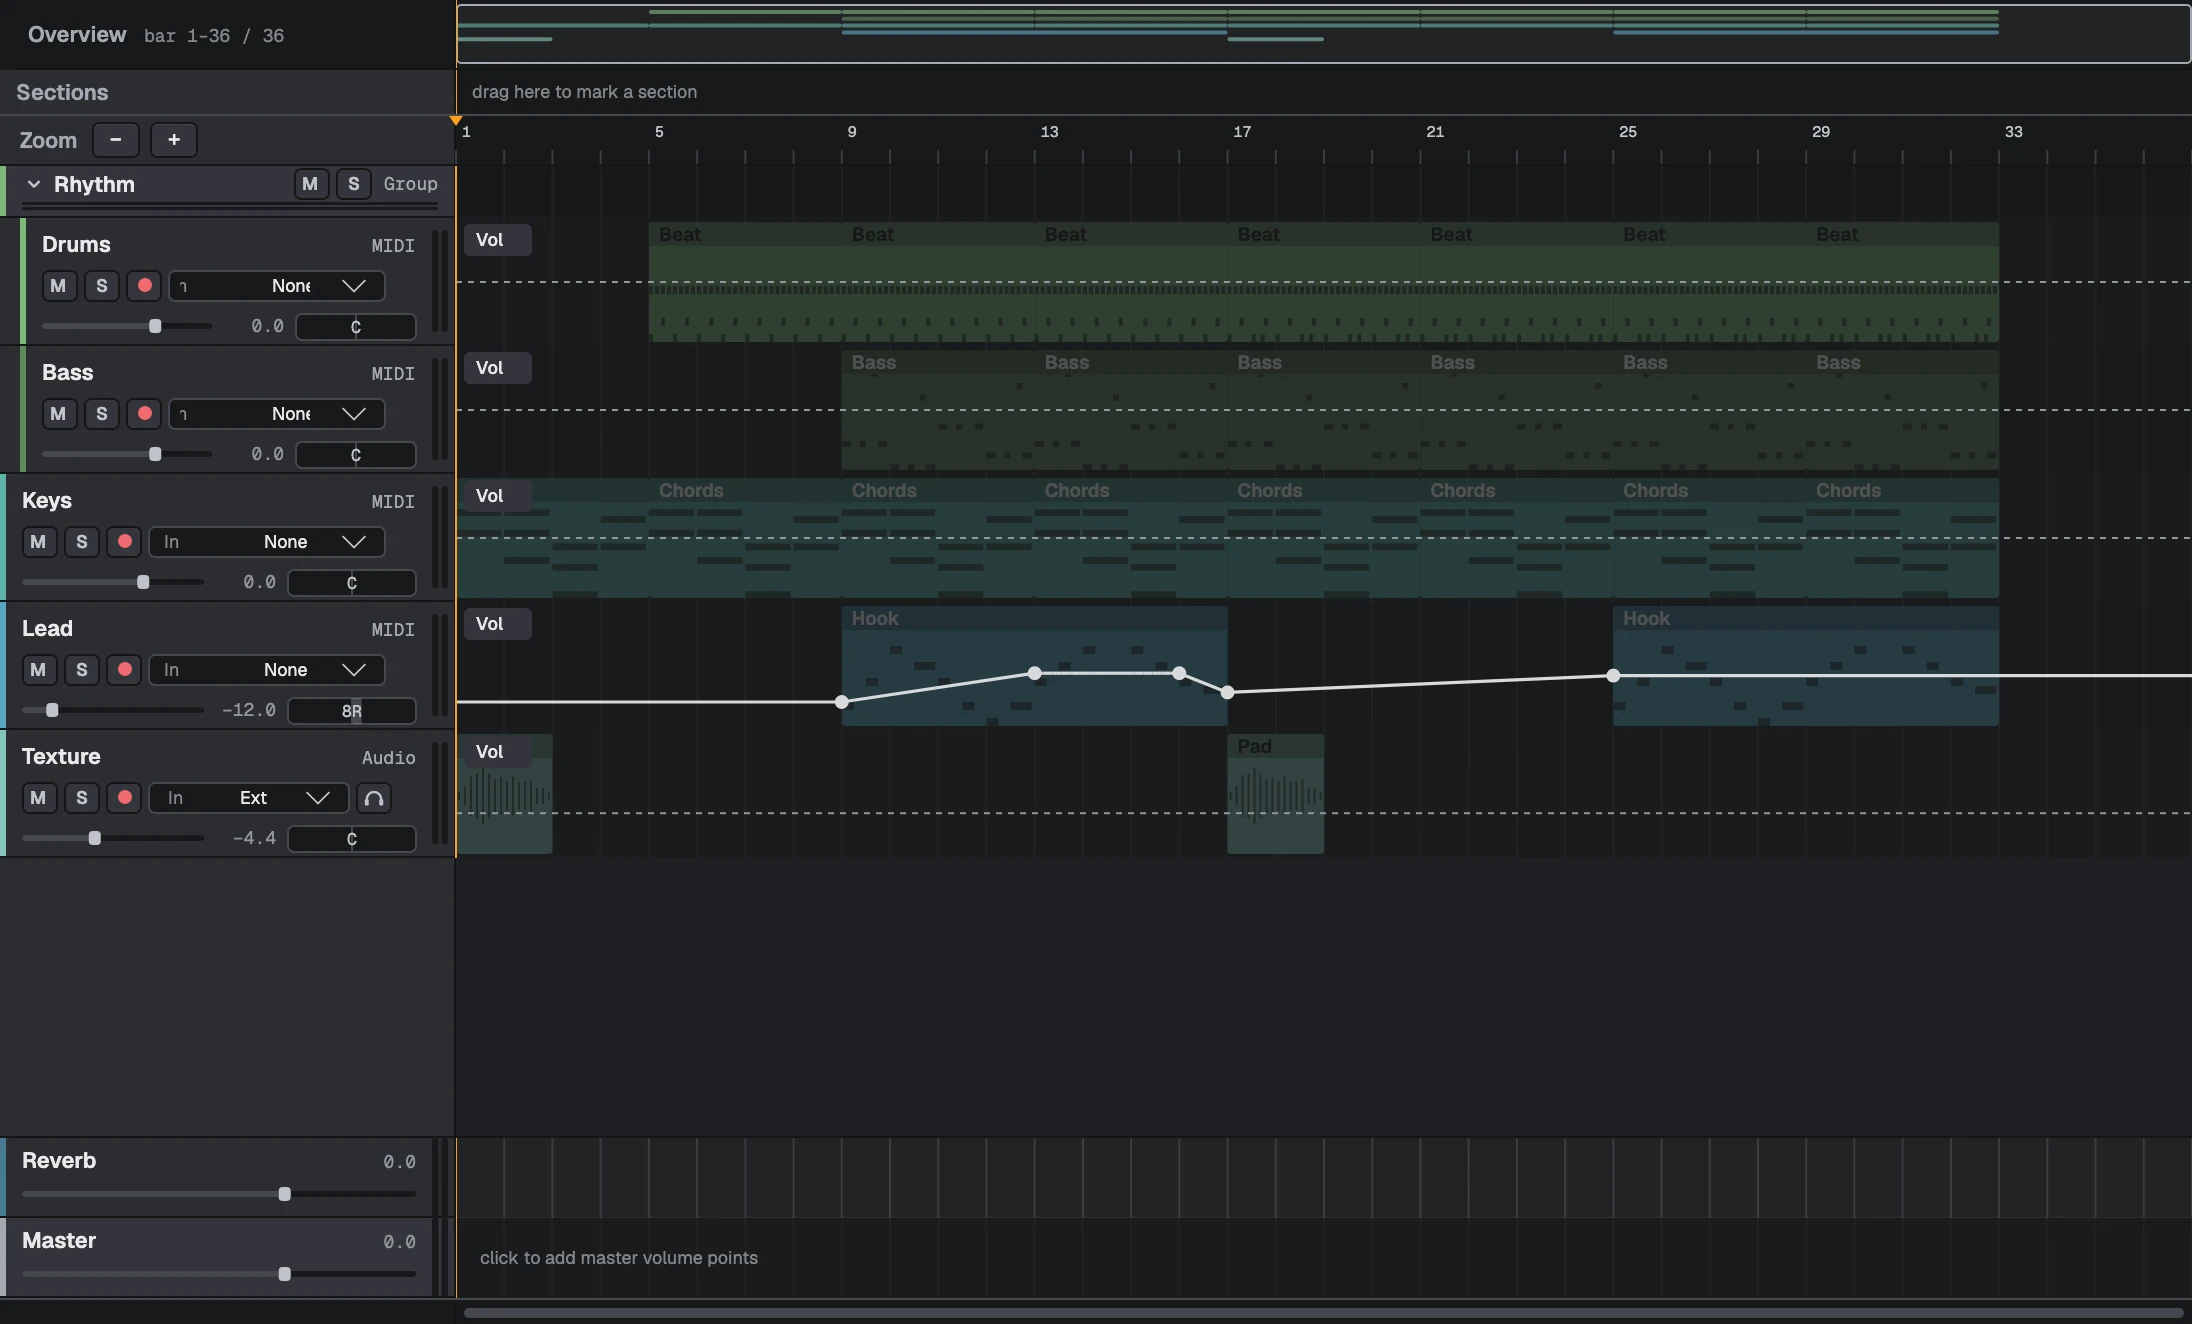
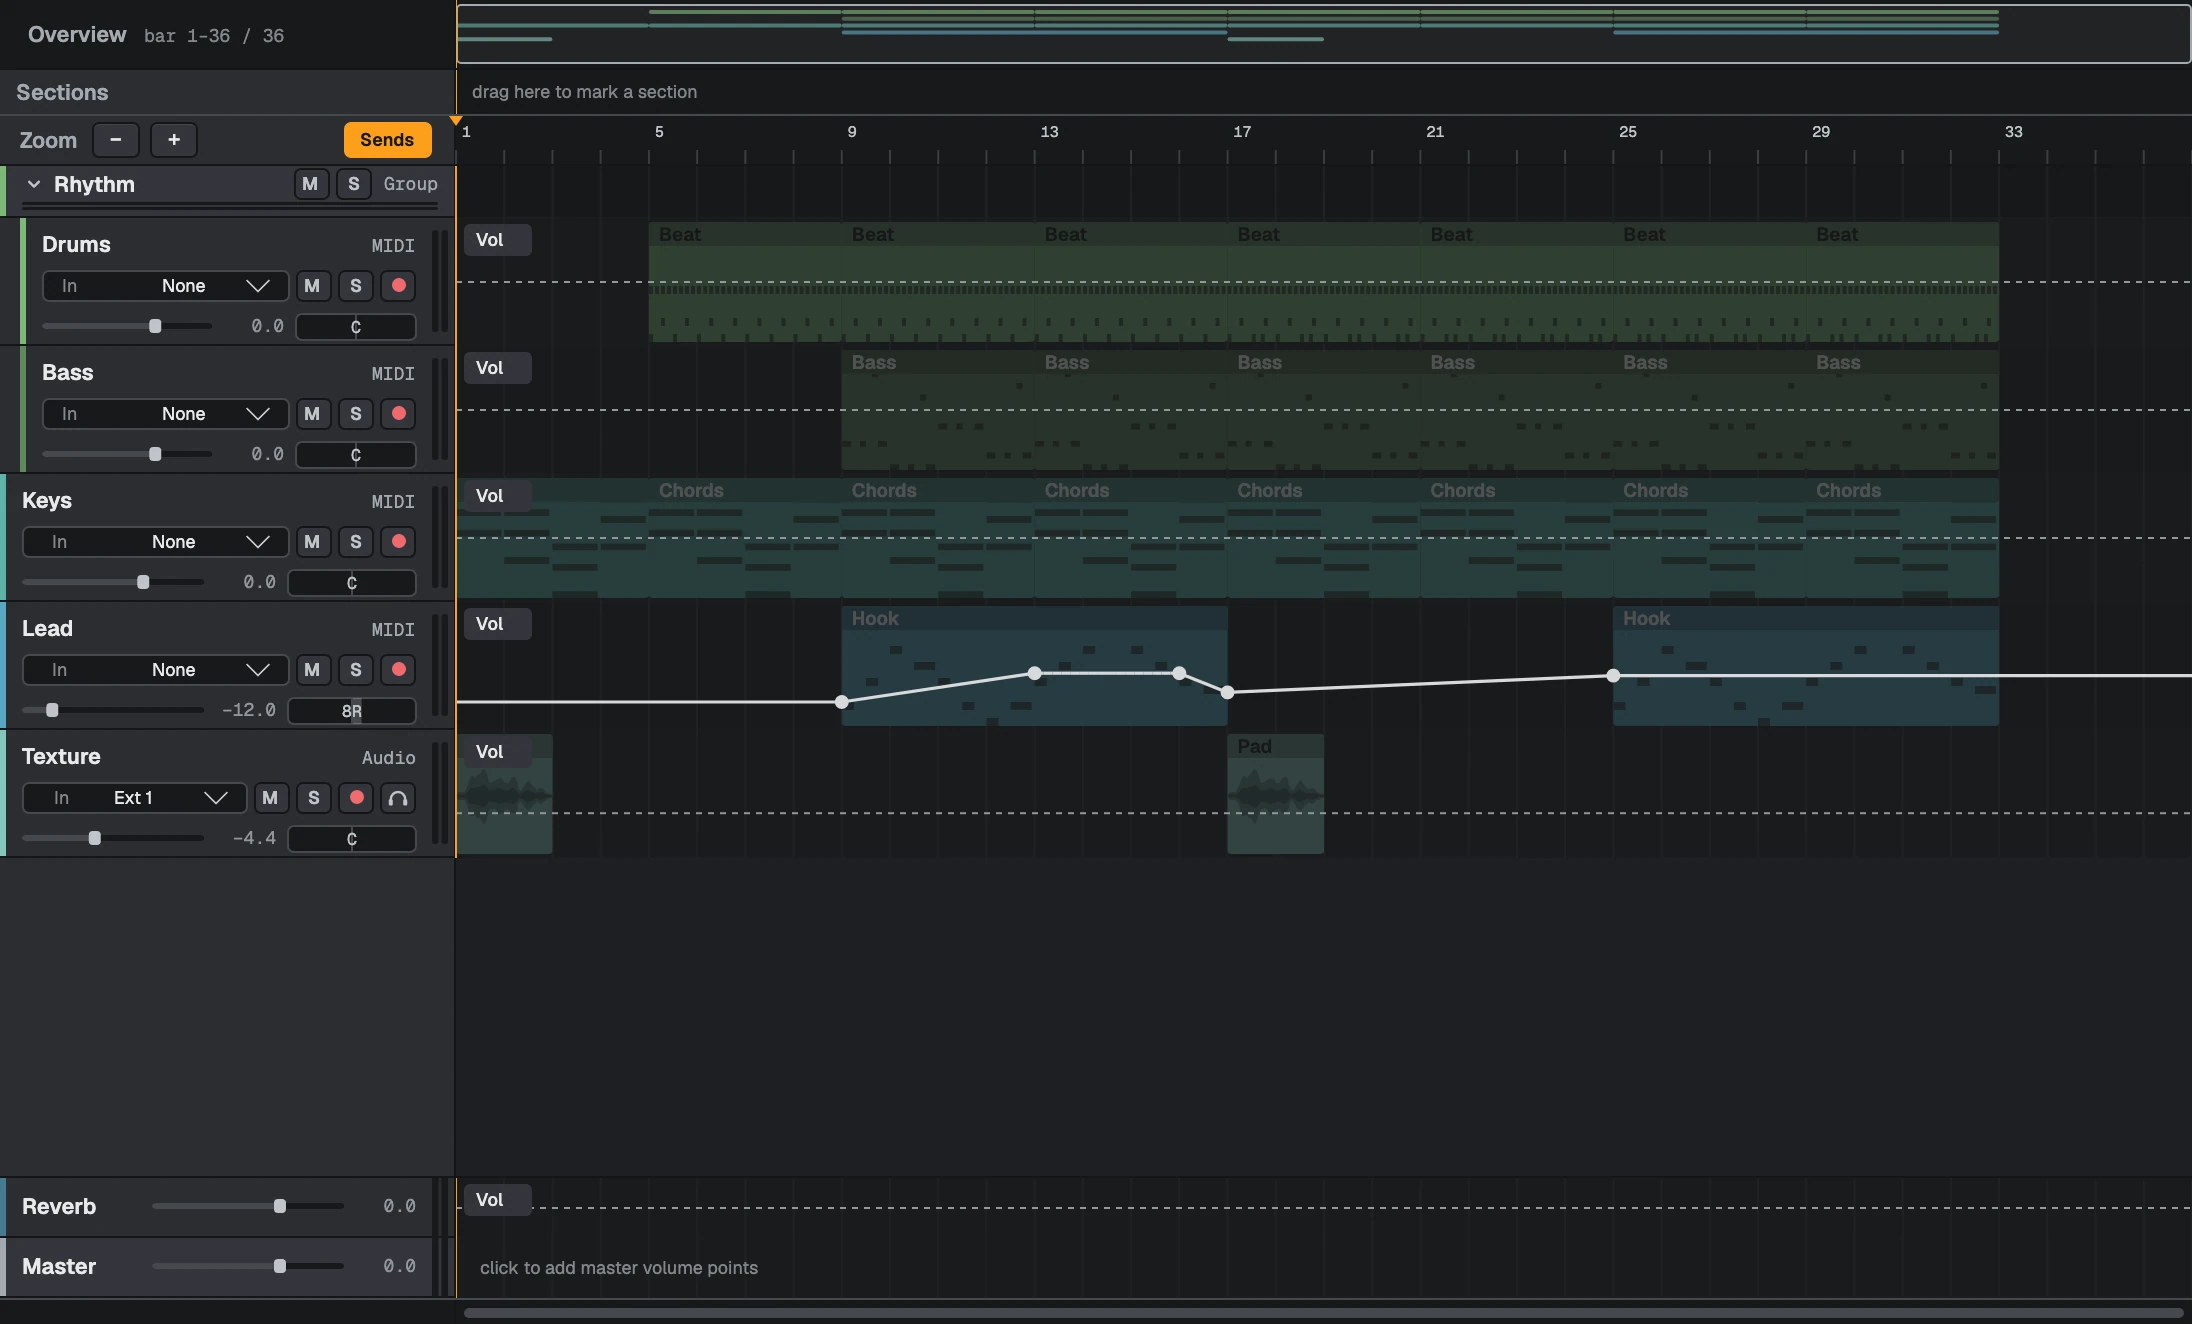
(docs) Send knobs in the Arrangement track headers; sends undoable and automatable (nota-daw/nota#143)

diff --git a/shots/app/Scenes.cs b/shots/app/Scenes.cs
@@ -31,6 +31,7 @@ namespace NotaDocsShots;
 ///             more MIDI clips selected with it, so they open together), automation, tab (browser tab index),
 ///             expand (a folder in that tab) + pick (a row to select, which the preview player takes), detailHeight, element, width, height,
 ///             fold (the selected track's audio effects to fold into strips, by chain index, e.g. "0,2"; "i" = the instrument)
+///             rows (every track row at this height in px; standard is 64)
 ///   palette   the command palette (⌘⇧P) over the main window: view, select (track), card (index of
 ///             an audio effect to select in Devices), query, down (rows to move), mods (alt | cmd | shift),
 ///             origin (devices: the Devices panel had the focus), crop (true: just the palette card)
@@ -394,6 +395,8 @@ public sealed class Scenes
         // Zoom: fit the whole song, or the app's default (28 px a beat from bar 1) — the view
         // keeps its zoom between shots otherwise.
         var tl = mw.FindControl<ArrangementView>("Timeline")!;
+        // Every track row at this height (e.g. 96: a standard row tall enough for its sends).
+        if (shot.Int("rows") is int rows) Invoke(tl, "SetAllTrackHeights", (double)rows);
         if (shot.Bool("fit")) Invoke(tl, "ZoomToFitProject");
         else Invoke(tl, "ApplyOverviewView", 28.0, 0.0);
         Pump(20);
@@ -401,7 +404,8 @@ public sealed class Scenes
         else HideUpdate();
         var element = shot.Str("element") is string el ? mw.FindControl<Control>(el) ?? throw new ArgumentException($"no control '{el}'") : null;
         Save(mw, shot.Id, element);
-        // The demo song is shared by every shot: open the folded cards again.
+        // The demo song is shared by every shot: back to standard rows, open the folded cards again.
+        if (shot.Int("rows") is not null) Invoke(tl, "SetAllTrackHeights", 64.0);
         if (shot.Str("select") is string sel && shot.Str("fold") is string unfold) Fold(mw, _demo.Track(sel), unfold, false);
     }
 
